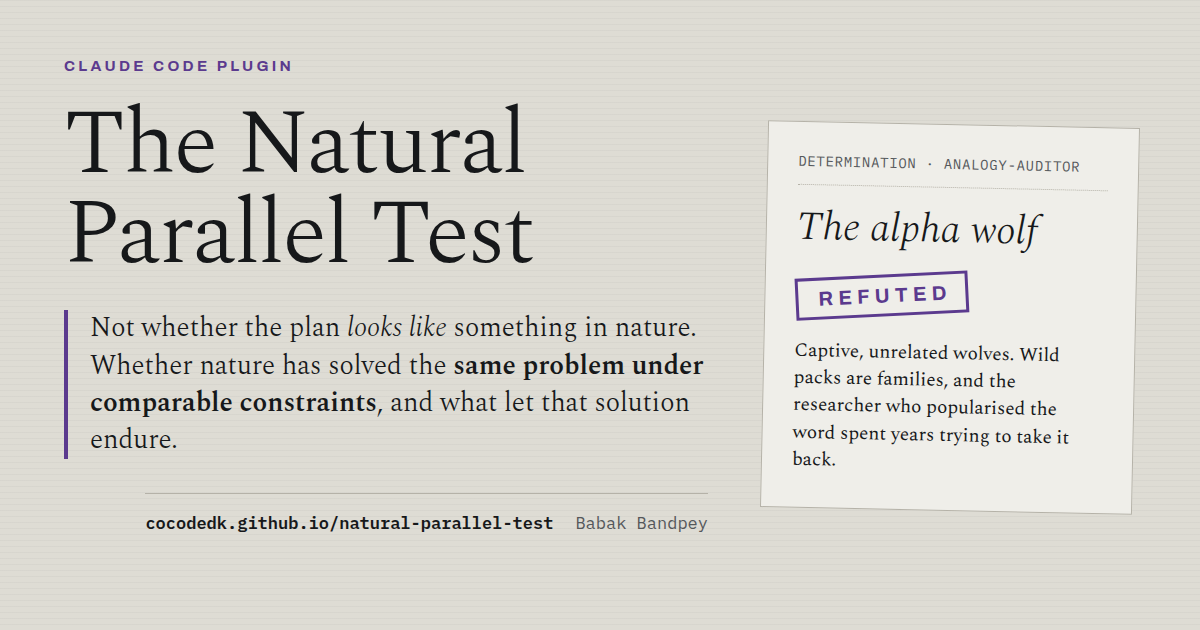
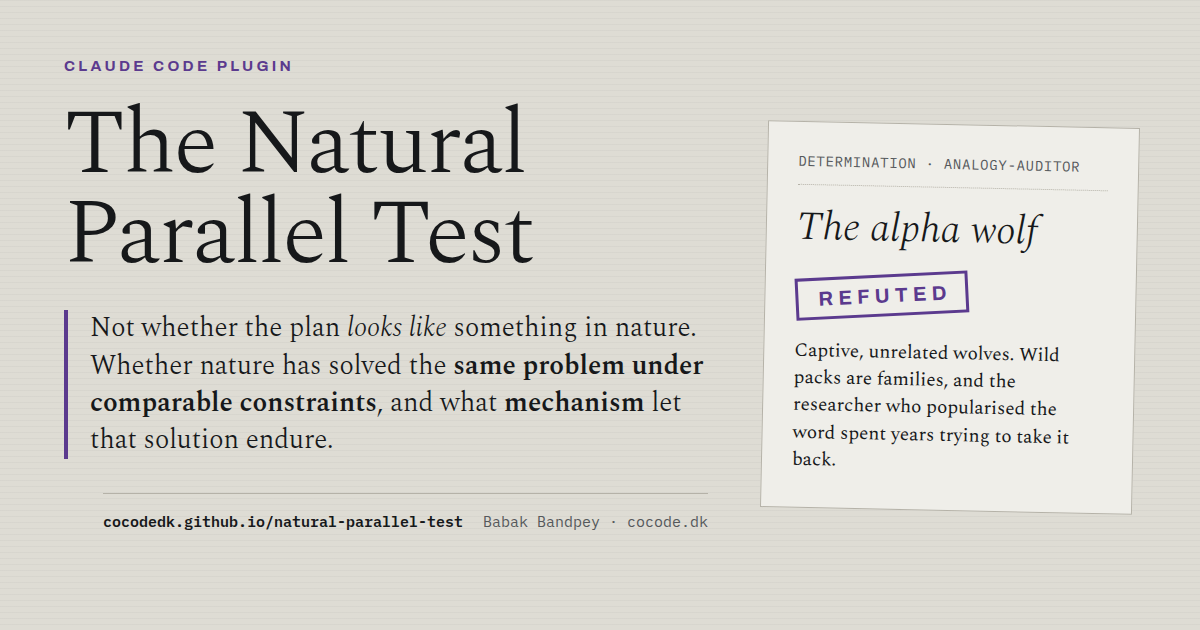
fix: restore 'mechanism' to the core rule on the OG card
The social preview quoted the rule as '...and what let that solution
endure', dropping the one word the whole framework turns on. Also fits
the attribution line on a single row.

Changed region(s): [[0.0925, 0.8143, 0.5858, 0.8444], [0.0617, 0.6635, 0.2775, 0.7238], [0.4008, 0.6032, 0.5858, 0.6635]]

diff --git a/website/og-image.html b/website/og-image.html
@@ -70,9 +70,10 @@
     align-self: end;
     display: flex;
     align-items: baseline;
-    gap: 22px;
+    gap: 20px;
     font-family: "IBM Plex Mono", monospace;
-    font-size: 17px;
+    font-size: 15px;
+    white-space: nowrap;
     color: #55585b;
     border-top: 1px solid #b5b2a8;
     padding-top: 18px;
@@ -129,10 +130,10 @@
       <h1>The Natural<br>Parallel Test</h1>
       <p class="rule">Not whether the plan <em>looks like</em> something in nature. Whether
         nature has solved the <strong>same problem under comparable constraints</strong>, and
-        what let that solution endure.</p>
+        what <strong>mechanism</strong> let that solution endure.</p>
       <div class="foot">
         <span><b>cocodedk.github.io/natural-parallel-test</b></span>
-        <span>Babak Bandpey</span>
+        <span>Babak Bandpey · cocode.dk</span>
       </div>
     </div>
 
